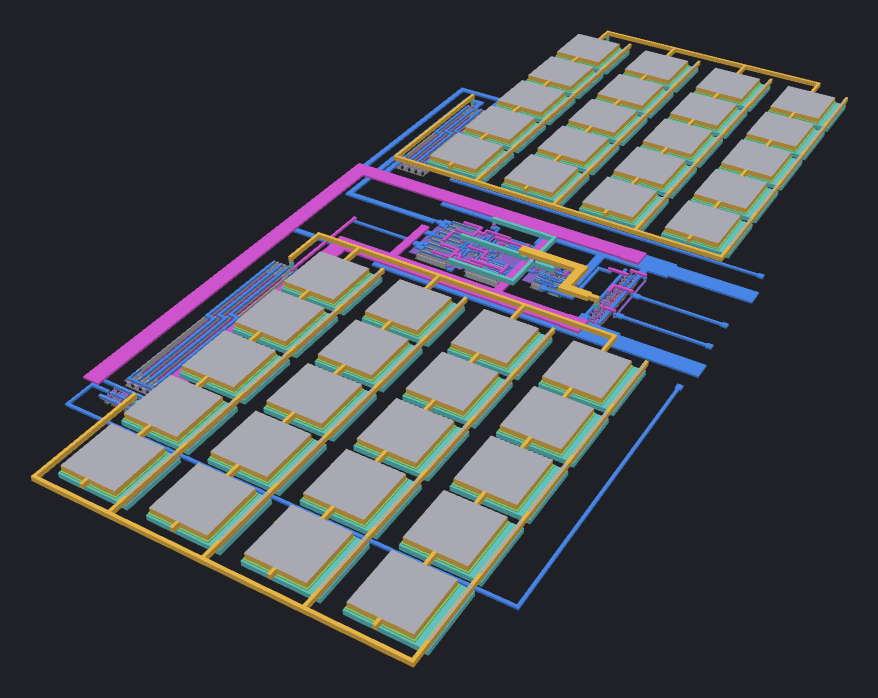
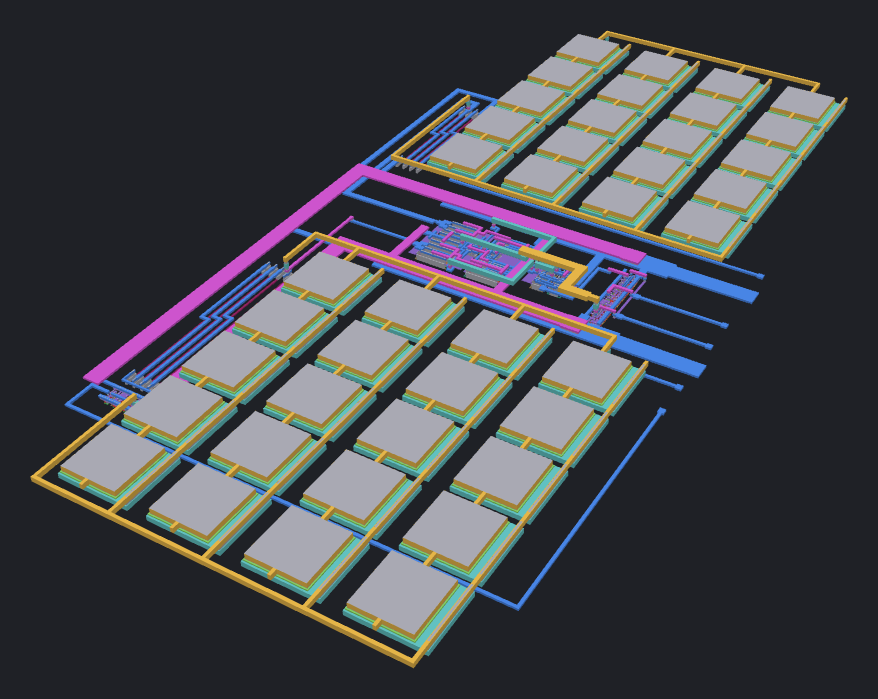
Document flash converter and Tiny Tapeout top level
Add sections for the 3-bit flash converter and the tt/ top level to
doc/designs.md, update the 1bit_am section for the VIN_MINUS port, and
note the latch input-pair/tail W mismatch (2 x 5 um fingers in layout
vs W = 5 um in schematic) behind the LVS property errors.

Add flash converter and tt screenshots, re-render the 1bit_am ones, and
let render_screenshots.py render a subset of shots by name.

diff --git a/doc/render_screenshots.py b/doc/render_screenshots.py
@@ -4,7 +4,9 @@ Regenerate the 3D layout screenshots used in doc/designs.md.
 Uses mag_viewer3d's offscreen renderer with fixed camera angles, then crops
 each image to its content. Standard cells are resolved from the sky130A PDK:
 
-    PDK_ROOT=/path/to/pdk QT_QPA_PLATFORM=offscreen python3 doc/render_screenshots.py
+    PDK_ROOT=/path/to/pdk QT_QPA_PLATFORM=offscreen python3 doc/render_screenshots.py [image.png ...]
+
+Pass output image names to render only those shots; with no arguments all are rendered.
 
 (PDK_ROOT must contain sky130A/libs.ref/sky130_fd_sc_hd/mag.)
 """
@@ -30,6 +32,10 @@ SHOTS = [
     ("high_speed_comp/post_amplifier_routed.mag", "post_amplifier_iso.png", ISO, 1.0, (1600, 1000)),
     ("1bit_am/1bit_am_routed.mag", "1bit_am_iso.png", ISO, 0.8, (1600, 1000)),
     ("1bit_am/1bit_am_routed.mag", "1bit_am_top.png", TOP, 1.0, (1000, 1400)),
+    ("3bit-flash-converter/flash_converter_routed.mag", "flash_converter_iso.png", ISO, 0.8, (1600, 1000)),
+    ("3bit-flash-converter/flash_converter_routed.mag", "flash_converter_top.png", TOP, 1.0, (1000, 1400)),
+    ("tt/tt_um_jamesrosssharp_high_speed_comp.mag", "tt_top_iso.png", ISO, 0.8, (1600, 1000)),
+    ("tt/tt_um_jamesrosssharp_high_speed_comp.mag", "tt_top_top.png", TOP, 1.0, (1000, 1400)),
 ]
 
 
@@ -53,12 +59,15 @@ def main():
     fmt.setDepthBufferSize(24)
     fmt.setSamples(4)
     QSurfaceFormat.setDefaultFormat(fmt)
+    only = set(sys.argv[1:])
     app = QGuiApplication(sys.argv[:1])  # noqa: F841 (must outlive the renders)
 
     out_dir = os.path.join(ROOT, "doc", "images")
     os.makedirs(out_dir, exist_ok=True)
 
     for mag, png, (yaw, pitch), zoom, (w, h) in SHOTS:
+        if only and png not in only:
+            continue
         db, top = mv.load(os.path.join(ROOT, mag), lib_paths)
         scene = mv.LayoutScene(db, top)
         r = mv.LayoutRenderer(scene)

diff --git a/doc/designs.md b/doc/designs.md
@@ -1,12 +1,15 @@
-# Analog designs: high speed comparator and 1bit_am
+# Analog designs: high speed comparator, 1bit_am and 3-bit flash converter
 
-This document describes the two sky130 analog blocks in this repository that are
-laid out, routed and LVS checked with the magma flow:
+This document describes the sky130 analog blocks in this repository that are
+laid out, routed and LVS checked with the magma flow, and the Tiny Tapeout
+top level (`tt/`) that combines them:
 
 | Design | Layout | Schematic | Size |
 |---|---|---|---|
 | High speed clocked comparator | `high_speed_comp/high_speed_comp_top_routed.mag` | `xschem/flash_converter/high_speed_comp_top.sch` | 25.0 × 43.5 µm |
 | 1bit_am front end | `1bit_am/1bit_am_routed.mag` | `xschem/1bit_am/1bit_am.sch` | 77.8 × 157.5 µm |
+| 3-bit flash converter | `3bit-flash-converter/flash_converter_routed.mag` | `xschem/flash_converter/flash_converter.sch` | 62.0 × 172.0 µm |
+| Tiny Tapeout top level | `tt/tt_um_jamesrosssharp_high_speed_comp.mag` | `xschem/tt/tt_um_jamesrosssharp_high_speed_comp.sch` | 161.0 × 225.76 µm (analog 1x2 tile) |
 
 All screenshots come from the magma 3D viewer (`mag_viewer3d.py`). See
 [Regenerating the screenshots](#regenerating-the-screenshots).
@@ -126,6 +129,7 @@ Related experiments:
 | `CLK` | in | Comparator clock |
 | `PWM_IN` | in | 1-bit feedback bitstream |
 | `VOUT` | out | Comparator decision |
+| `VIN_MINUS` | analog | Feedback filter node: comparator `VINN`, top of C2 |
 | `VDD`, `VSS` | supply | 1.8 V / 0 V |
 
 ### Architecture
@@ -135,16 +139,17 @@ Related experiments:
                   │
                  R3
                   │
-                 R4            ┌──────────────────────┐
- VIN ──┤├────────┼──NET_IN───►│ VINP                 │
-       C1        R5            │  high_speed_comp_top │──► VOUT
-                  │      ┌───►│ VINN                 │
-                 R6      │     └──────────▲───────────┘
-                  │      │                │ CLK
-                 VSS     │
-                         NET_PWM ──┤├── VSS
-                         │          C2
- PWM_IN ─► inv ─► inv ─► R1 ─ R7 ─ R8 ─ R2
+                 R4                     ┌──────────────────────┐
+ VIN ──┤├─────────┼────────NET_IN──────►│ VINP                 │
+       C1        R5                     │  high_speed_comp_top │──► VOUT
+                  │                 ┌──►│ VINN                 │
+                 R6                 │   └──────────▲───────────┘
+                  │                 │              │ CLK
+                 VSS                ├──► VIN_MINUS (port)
+                                    │
+                                    ├──┤├── VSS
+                                    │   C2
+ PWM_IN ─► inv ─► inv ─► R1─R7─R8─R2┘
 ```
 
 The block reuses the routed comparator from section 1 as a 1-bit quantiser in a
@@ -154,7 +159,9 @@ delta-modulator style loop:
   R3–R6 (four equal `res_xhigh_po_0p35`, L = 20 µm) biases `NET_IN` at about VDD/2.
 - **Feedback path**: The two `inv_1` cells buffer the `PWM_IN` bitstream. It then
   drives an RC low-pass: R1, R7, R8 and R2 in series (`res_xhigh_po_0p35`,
-  L = 30 µm each) into C2. The result, `NET_PWM`, is the comparator's reference input.
+  L = 30 µm each) into C2. The filtered node, `VIN_MINUS`, is the comparator's reference
+  input (`VINN`). It is also a port, so the filter output can be observed. Alternatively,
+  the reference can be driven externally (the Tiny Tapeout top level brings it out on `ua[1]`).
 - **Capacitors**: C1 and C2 are each `cap_mim_m3_1`, W = L = 10 µm, m = 20.
 - **Loop**: The comparator compares the input with the filtered feedback. When
   `VOUT` is fed back to `PWM_IN`, the filtered bitstream tracks the input, so the
@@ -174,13 +181,15 @@ is the near one. The routed comparator from section 1 sits between them, rotated
 *Top-down view. C1 is at the top and C2 at the bottom. The comparator is in the
 centre. The bias divider R3–R6 is at the top left and the feedback resistors
 R1/R7/R8/R2 are at the bottom left. The two feedback inverters are at the bottom
-left corner. All six ports are on metal1 at the right-hand edge.*
+left corner. All seven ports are on metal1 at the right-hand edge. From top to bottom
+they are `VIN`, `VDD`, `VOUT`, `CLK`, `VSS`, `VIN_MINUS` and `PWM_IN`.*
 
 ### Verification
 
 - **LVS**: `1bit_am/run_lvs.sh`. The layout is now LVS clean
   (`1bit_am/comp.out`: *Circuits match uniquely*). Property errors remain on
-  `x1bit_am_routed`. `1bit_am/Claude-lvs.md` records the earlier mismatches
+  `x1bit_am_routed`. These are the same latch `nfet_01v8_lvt` `w` = 10 vs 5 errors as
+  in section 1. `1bit_am/Claude-lvs.md` records the earlier mismatches
   (inverter output shorted to VSS, among others) and how they were fixed.
 - **PEX**: `1bit_am/run_pex.sh` generates `1bit_am_routed.pex.spice`.
 
@@ -202,6 +211,216 @@ run passes if the largest spectral peak of `VOUT` is in the same bin as the inpu
 
 ---
 
+## 3. 3-bit flash converter (`flash_converter`)
+
+### Ports
+
+| Pin | Direction | Function |
+|---|---|---|
+| `VIN` | in | Analog input, shared by all eight comparators |
+| `CLK` | in | Sampling clock, shared by all eight comparators |
+| `RES_TOP`, `RES_OUT` | analog | Top and bottom of the internal reference ladder |
+| `O0`..`O7` | out | Comparator decisions (thermometer code, `O0` = highest threshold) |
+| `VDD`, `VSS` | supply | 1.8 V / 0 V |
+
+### Architecture
+
+```
+ RES_TOP ──┬──────────────► VINN ┐
+           R1                    x1 (VINP = VIN) ──► O0
+           ├──────────────► VINN ┐
+           R2                    x2 ──► O1
+           ├──────────────► VINN ┐
+           ⋮                     ⋮
+           R7
+           ├──────────────► VINN ┐
+           R8                    x8 ──► O7
+ RES_OUT ──┘
+```
+
+- **Comparators**: eight `high_speed_comp_top` instances (the routed comparator from
+  section 1) share `VIN` on `VINP`, and `CLK`.
+- **Ladder**: comparator `xk` takes its `VINN` from tap k−1 of a ladder of eight equal
+  `res_high_po_1p41` resistors (R1–R8, L = 1.41 µm) between `RES_TOP` and `RES_OUT`.
+  `x1` sees `RES_TOP` itself.
+- **Thresholds**: these are set by what is connected to `RES_TOP` and `RES_OUT`.
+  Because the ladder ends are ports, the parent cell can add resistors to place the
+  thresholds within the comparator's working common-mode range (0.46–1.7 V,
+  section 1). In the Tiny Tapeout top level, one resistor above and three below give
+  thresholds of 1.65 V down to 0.60 V. See [section 4](#4-tiny-tapeout-top-level-tt).
+- **Outputs**: these form a thermometer code. Each output is registered by its own
+  comparator's flip-flop, so all eight outputs update on the same `CLK` edge.
+- **Dummies**: R9–R12 are unconnected dummy resistors at the ends of the ladder.
+- **Unwired encoder**: `xschem/flash_converter/flash_converter_digital.sch` holds
+  `xor2_2` and `inv_1` cells for a thermometer-to-binary encoder, but it has no wires
+  yet. It is not used in the layout or in the Tiny Tapeout top level.
+
+`xschem/flash_converter/flash_converter_test.sch` is a schematic-level transient
+testbench with these settings:
+
+- Clock: 50 MHz.
+- `VIN`: 1.1 V ± 0.7 V sine at 1 MHz.
+- Ladder ends: 500 Ω from VDD to `RES_TOP` and 1.5 kΩ from `RES_OUT` to ground.
+
+There is no post-layout simulation of the converter yet.
+
+### Layout
+
+![3-bit flash converter, isometric view](images/flash_converter_iso.png)
+
+*Isometric view of `flash_converter_routed`. The eight comparators are stacked in a
+single column, each rotated 90°, with alternate comparators mirrored. The wide
+horizontal metal1 bars are the supply rails.*
+
+![3-bit flash converter, top-down view](images/flash_converter_top.png)
+
+*Top-down view. `x1` (`O0`) is at the top and `x8` (`O7`) at the bottom.*
+
+- **Ladder**: R1–R8 are the column of small resistors at the left of the cell. R9/R10 are
+  dummies above it and R11/R12 dummies below it.
+- **Ports**:
+  - `VIN`, `RES_TOP` and `RES_OUT` are on metal1 at the left-hand edge.
+  - `O0`–`O7` and `CLK` are on metal1 at the right-hand edge.
+  - `VDD` and `VSS` are near the top right.
+- **Power**: two 2.5 µm metal4 stripes run the height of the cell, VDD (longer) and VSS.
+  A via stack drops them onto the metal1 rails every 42 µm.
+- **Signal routing**:
+  - `VIN` fans out to every `VINP` on metal4, and the ladder taps reach `VINN` on metal3.
+  - `CLK` and the outputs route on metal1/metal2 down the right-hand side.
+
+### Flow
+
+- **Route.** `route_flash_converter.py`, run from the repository root, reads the
+  hand-placed `3bit-flash-converter/flash_converter.mag` and writes
+  `flash_converter_routed.mag`.
+- **Check LVS.** Run `3bit-flash-converter/run_lvs.sh [PDK_ROOT]`. It compares against
+  `flash_converter_routed.xschem.out.spice`.
+- **Local and linked cells.** The ladder resistor cells (`sky130_fd_pr__res_high_po_1p41_*.mag`)
+  are local to the directory. The comparator sub-cells are symlinks into `high_speed_comp/`,
+  `post-amp/` and `strong-arm/`.
+
+### Verification
+
+- **LVS**: `3bit-flash-converter/comp.out` reports *Circuits match uniquely*. Both sides
+  have 178 devices and 111 nets after merging. This has been the case since commit 6557fce.
+  - Property errors remain on 24 devices, `w` = 10 vs 5. These are the latch's `nfet_01v8_lvt`
+    input pair and tail (M1–M3) in each of the eight comparators.
+  - The latch layout draws each of these transistors as two 5 µm fingers in parallel,
+    for a total W of 10 µm. The schematic has W = 5 µm, nf = 1.
+  - This is the same discrepancy behind the property errors in sections 1, 2 and 4.
+    Either the schematic should become W = 10 µm, nf = 2, or the layout should
+    become single 5 µm devices.
+- **DRC**: the routed cell was reported DRC clean when it was first routed (commit 8997841).
+  No later DRC result is recorded, and there is no DRC script in the directory.
+
+---
+
+## 4. Tiny Tapeout top level (`tt/`)
+
+`tt_um_jamesrosssharp_high_speed_comp` is the submission for a Tiny Tapeout analog
+**1x2 tile** (161.0 × 225.76 µm). It places three blocks in the tile:
+
+- the 1bit_am front end from section 2;
+- one standalone copy of the comparator from section 1;
+- the 3-bit flash converter from section 3.
+
+It then wires them to the Tiny Tapeout pins.
+
+### Pin usage
+
+| TT pin | Connection |
+|---|---|
+| `ua[0]` | Shared analog input: 1bit_am `VIN`, standalone comparator `VINP`, flash converter `VIN` |
+| `ua[1]` | 1bit_am `VIN_MINUS` (feedback filter node) and standalone comparator `VINN` |
+| `clk` | `clkbuf_16` → `clk_prime`, which clocks all 10 comparators (1bit_am, standalone, 8 × flash) |
+| `ui_in[0]` | 1bit_am `PWM_IN` (1-bit feedback bitstream) |
+| `uo_out[0]` | 1bit_am `VOUT`, through a `buf_4` |
+| `uo_out[1]` | Standalone comparator `COMP_OUT`, through a `buf_4` |
+| `uio_out[0..7]` | Flash converter outputs `O0..O7`, each through a `buf_4` |
+| `uio_oe[0..7]` | Tied high (`conb_1` HI), so every `uio` pin is an output |
+| `uo_out[2..7]` | Tied low (`conb_1` LO) |
+| `VDPWR`, `VGND` | 2 µm metal4 power stripes at x = 1 µm and 4 µm |
+| `ena`, `rst_n`, `ui_in[1..7]`, `uio_in[*]`, `ua[2..7]` | Unused |
+
+### Flash converter thresholds
+
+The flash converter from section 3 is instance `x2`, rotated 180°. At the top level,
+its reference ladder is extended with more `res_high_po_1p41` resistors of the same
+size. The full ladder runs as follows: VDPWR → XR11 → `RES_TOP` → the converter's
+R1–R8 → `RES_OUT` → XR1–XR3 → VGND.
+
+That makes 12 equal resistors in total. Comparator `Ok` therefore trips when
+`ua[0]` > (11 − k)/12 · VDD:
+
+| Output | O0 | O1 | O2 | O3 | O4 | O5 | O6 | O7 |
+|---|---|---|---|---|---|---|---|---|
+| Threshold at VDD = 1.8 V | 1.65 V | 1.50 V | 1.35 V | 1.20 V | 1.05 V | 0.90 V | 0.75 V | 0.60 V |
+
+The outputs form a thermometer code. Steps are 150 mV and every threshold sits inside
+the comparator's working common-mode range.
+
+### Layout
+
+![Tiny Tapeout top level, isometric view](images/tt_top_iso.png)
+
+*Isometric view of `tt_um_jamesrosssharp_high_speed_comp`. The 1bit_am block, with
+its two MIM capacitor arrays, is on the left. The column of nine comparators is on
+the right.*
+
+![Tiny Tapeout top level, top-down view](images/tt_top_top.png)
+
+*Top-down view.*
+
+- **Pins**: The digital pins (`clk`, `ui_in`, `uo_out`, `uio_*`) are along the top edge.
+  The analog pins `ua[0..7]` are along the bottom edge.
+- **Power**: The `VDPWR`/`VGND` metal4 stripes run down the left edge. The wide
+  horizontal metal3 straps carry power across to the blocks.
+- **Standard-cell row**: This row is under the top edge. It holds the tie cells,
+  output buffers, `clkbuf_16`, decaps and taps.
+- **Comparators**: The right-hand column holds the eight flash-converter
+  comparators. The standalone comparator (`x11`) is at the bottom of that column.
+
+### Flow
+
+| File | Purpose |
+|---|---|
+| `tt_analog_1x2.def`, `magic_init_project.tcl` | Tiny Tapeout template. These give the pin positions and draw the power stripes. |
+| `tt_um_jamesrosssharp_high_speed_comp_master.mag` | Hand placement of the instances, with no top-level routing |
+| `../route_tt.py` | magma router script. It reads the master cell and writes the routed `tt_um_jamesrosssharp_high_speed_comp.mag`. |
+| `run_lvs.sh` | Runs magic extraction to produce `*.lvs.out.spice`. It then runs netgen against `*.xschem.out.spice` and writes the result to `comp.out`. |
+| `make_gds_lef.sh` | Writes `gds/` and `lef/` from the routed cell |
+| `*.mag` symlinks | Point at the sub-cell layouts in `1bit_am/`, `high_speed_comp/` and `3bit-flash-converter/`, so magic can find them |
+
+The rebuild steps are:
+
+1. **Route.** Run `python3 route_tt.py` from the repository root. It needs the built magma
+   extensions in `build/` and the PDK in `~/.ciel/sky130A`.
+2. **Check LVS.** Run `cd tt && ./run_lvs.sh [PDK_ROOT]`. `PDK_ROOT` defaults to `/opt/pdk/`.
+3. **Export.** Run `cd tt && ./make_gds_lef.sh [PDK_ROOT]`.
+
+`*.xschem.out.spice` is the netlist of `xschem/tt/tt_um_jamesrosssharp_high_speed_comp.sch`,
+exported from xschem. Re-export it whenever the schematic changes.
+`tt_um_jamesrosssharp_high_speed_comp.spice` is an older export that LVS does not use. It still
+has `buf_16` output buffers where the design now uses `buf_4`.
+
+`gds/` and `lef/` also contain `tt_um_analog_example.*`, the original
+Tiny Tapeout template example.
+
+### Verification
+
+- **LVS**: `tt/comp.out` reports *Circuits match uniquely*. Both sides have 253 devices
+  and 178 nets after merging. Netgen lists 24 property errors, all `w` = 10 vs 5 on
+  the latch's `nfet_01v8_lvt` devices. This is the same two-finger layout vs
+  single-finger schematic discrepancy described in section 3.
+- **Routing short fixed in commit d816b13**: The metal3 via landing pads on the `conb_1`
+  LO pins for `uo_out[2..7]` overlapped the horizontal VDPWR metal3 strap. This shorted
+  all six outputs to VDPWR and caused *Top level cell failed pin matching*. The via
+  stack now lands lower, clear of the strap.
+- **DRC**: There is no DRC script in `tt/` yet. Run Tiny Tapeout's precheck before
+  submitting.
+
+---
+
 ## Regenerating the screenshots
 
 The images in `doc/images/` were rendered offscreen with the 3D viewer. Build the
@@ -211,6 +430,9 @@ plus Pillow. Then run:
 ```sh
 PDK_ROOT=/path/to/pdk QT_QPA_PLATFORM=offscreen python3 doc/render_screenshots.py
 ```
+
+To render only some of the shots, pass their output names, for example
+`... render_screenshots.py tt_top_iso.png tt_top_top.png`.
 
 `PDK_ROOT` must contain `sky130A/libs.ref/sky130_fd_sc_hd/mag`, so that the
 standard cells render. Without it they appear as empty wireframe boxes.
